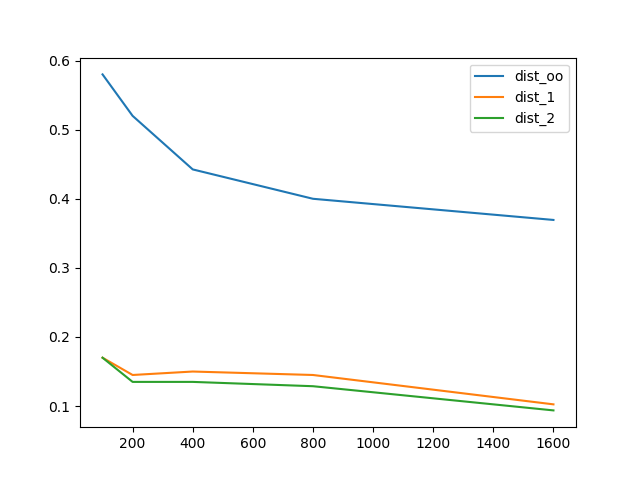
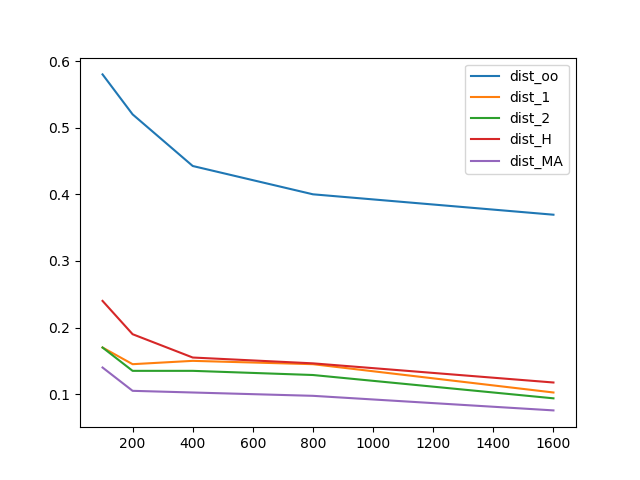
Cleanup.

diff --git a/init.py b/init.py
@@ -14,27 +14,6 @@ y_train=arc['arr_1']
 x_test=arc['arr_2']
 y_test=arc['arr_3']
 
-
-def plot_error_dist_matrix(ldist):
-	'''
-	input: a list of distance functions.
-	output: a plot 'all_dist_err.png' with comparison of
-	the distance matrices for N=100.
-	'''
-	plt.figure()
-	x=[ 100*2**i for i in range(5) ]
-	y=[]
-	for d in ldist:
-		yd = [ dist_error(dist_matrix(n,d,x_train),y_train) for n in x  ]
-		plt.plot(x,
-			yd,
-			label=d.__name__)
-		y = y + yd
-	plt.legend()
-	err_table = np.array( y ).reshape((len(ldist),len(x)))
-	print(err_table.T)
-	plt.savefig("all_dist_err.png")
-
 def plot_dist_matrix(ldist):
 	'''
 	input: a list of distance functions.
@@ -46,23 +25,53 @@ def plot_dist_matrix(ldist):
 		plt.imshow(dm,cmap='gray_r')
 		plt.savefig(dist_f.__name__+".png")
 
-def compute_and_plot_error_dist_matrix(ldist):
+def compute_error_dist_matrix(ldist):
 	'''
 	input: a list of distance functions.
 	output: a list of values of the error of the distance matrix 
 	for N = 100,200,400,800,1600.
 	'''
+	x=[ 100*2**i for i in range(5) ]
+	ly = []
 	for dist_f in ldist:
 		start=time.perf_counter()
-		x=[ 100*2**i for i in range(5) ]
 		y = [ dist_error(dist_matrix(n,dist_f,x_train),y_train) for n in x ]
 		end=time.perf_counter()
+		ly.append(y)
 		print(dist_f.__name__,y,"( %.2f  seconds)" % (end-start))
+	
+	return x,ly
+
+def plot_error_dist_matrix(ldist,x,ly):
+	'''
+	input: 
+		- list of distance functions, 
+		- list of sizes
+		- list of errors (for each function)
+	output: a plot 'all_dist_err.png' with comparison of
+	the distance matrices for N=100.
+	'''
+	plt.figure()
+	y=[]
+	for i,d in enumerate(ldist):
+		plt.plot(x,
+			ly[i],
+			label=d.__name__)
+		y = y + ly
+	plt.legend()
+	err_table = np.array( y ).reshape((len(ldist),len(x)))
+	print(err_table.T)
+	plt.savefig("all_dist_err.png")
+
+
 
 
 
 if __name__ == '__main__':
 
-	plot_error_dist_matrix([dist_oo,dist_1,dist_2,dist_H,dist_MA])
-	plot_dist_matrix([dist_oo,dist_1,dist_2,dist_H,dist_MA])
-	compute_and_plot_error_dist_matrix([dist_oo,dist_1,dist_2,dist_H,dist_MA])
+	plot_dist_matrix(
+		[dist_oo,dist_1,dist_2,dist_H,dist_MA])
+	x,ly=compute_and_plot_error_dist_matrix(
+		[dist_oo,dist_1,dist_2,dist_H,dist_MA])
+	plot_error_dist_matrix(
+		[dist_oo,dist_1,dist_2,dist_H,dist_MA],x,ly)

diff --git a/methods.py b/methods.py
@@ -33,17 +33,15 @@ def dist_1(a,b):
 def dist_2(a,b):
 	t=(a-b).flatten()
 	return pow(t.dot(t),0.5)
-
-
-# OJO
-def dist_H_old(a,b):
+	
+# Assignment 6.
+def dist_H(a,b):
 	fa=a*(1.0/abs(a).sum((0,1)))
 	fb=b*(1.0/abs(b).sum((0,1)))
 	df = fb-fa
 	fpart = df.flatten()
-	dx,dy = grad(df)
-	dx=dx.flatten()
-	dy=dy.flatten()
+	dx=np.diff(df,axis=0).flatten()
+	dy=np.diff(df,axis=1).flatten()
 	return pow( fpart.dot(fpart) + dx.dot(dx) + dy.dot(dy)  ,0.5)
 
 dso=ctypes.CDLL("./libdist.so")
@@ -65,7 +63,7 @@ dso.dist_MA.restype = ctypes.c_double
 c_double_p = ctypes.POINTER(ctypes.c_double)
 
 
-def dist_H(a,b):
+def dist_H_C(a,b):
 	n=len(a)
 	ta=a.flatten().astype(np.float64)
 	tta=ta.ctypes.data_as(c_double_p)
